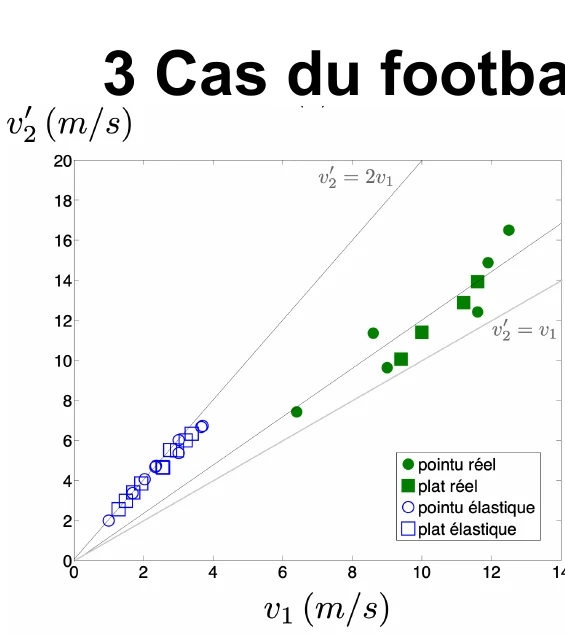
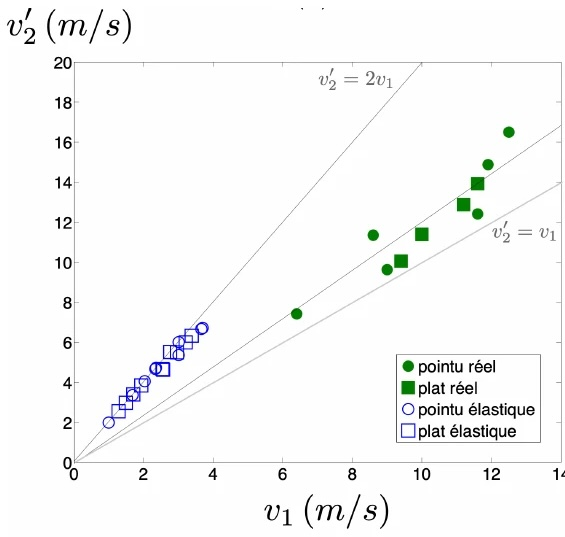
refactor(tipe): highlight experimental autonomy and LadHyX reference

diff --git a/en/projects/tipe.html b/en/projects/tipe.html
@@ -58,7 +58,7 @@
 <h1>Ball Impact Dynamics</h1>
 <div class="tipe-hero-tagline">Investigating the "Toe-Kick" effect: collision kinematics, contact duration, and kicking biomechanics</div>
 <p>
-From replicating a university research protocol to dynamic modeling: separating collision kinematics, contact duration, and human biomechanics in athletic strikes.
+An experimental and computational investigation into ball impact dynamics: drawing on research from LadHyX / École Polytechnique to separate collision kinematics, contact duration, and human biomechanics.
 </p>
 <div class="turbine-hero-actions">
 <a class="turbine-button turbine-button-primary" download="PRESENTATION_TIPE_55556_AOUANOUK.pdf" href="../../assets/documents/projects/tipe/presentation-tipe-55556.pdf">
@@ -90,7 +90,7 @@ Explore the Test Bench <i class="fas fa-arrow-down"></i>
 In ball sports and particularly football, an entrenched belief among athletes holds that striking the ball with the toe ("le pointu") yields superior departure speed ("more pure power"), whereas the inside of the foot ("le plat du pied") guarantees precision. This competitive CPGE TIPE research project investigated whether contact geometry alone can intrinsically alter ball launch velocity.
 </p>
 <p>
-To resolve this question, my engineering methodology centered on <strong>decoupling impact mechanics from human motor execution</strong>. By replicating at laboratory scale the experimental protocol of a doctoral reference thesis (football physics at LadHyX / École Polytechnique), I designed a repeatable pendulum test bench, built a high-speed video tracking workflow, automated kinematic data processing in Python, and formulated a minimal dynamic model validated by physical measurements.
+To investigate this question, I developed an experimental and computational approach focused on isolating impact mechanics from human motor execution. Drawing on research in football impact physics conducted at LadHyX / École Polytechnique, I designed and built a repeatable pendulum-based test bench, implemented a high-speed video tracking workflow, automated kinematic data processing in Python, and developed a simplified dynamic model validated against experimental measurements.
 </p>
 </section>
 <aside aria-label="TOOLS AND METHODS" class="project-tools-panel glass-panel">
@@ -108,7 +108,7 @@ To resolve this question, my engineering methodology centered on <strong>decoupl
 <section class="turbine-section slide-up delay-2" id="experimental-bench">
 <div class="turbine-section-heading">
 <span class="turbine-section-index">02 · EXPERIMENTAL RIG &amp; PROTOTYPING</span>
-<h2>Replicating Research Protocol at Laboratory Scale</h2>
+<h2>Custom Pendulum Rig Design &amp; Precision Prototyping</h2>
 </div>
 <p style="margin-bottom: 24px; color: #475569; line-height: 1.75;">
 To eliminate biases inherent to human motor variability (fluctuating foot speeds, muscular deceleration, parasitic ankle flexion), I engineered a mechanical leg based on a compound pendulum weighing <strong>m₁ = 1.4 kg</strong> with length <strong>L = 46 cm</strong>, guided inside a 50 cm vertical structure. Interchangeable impactor heads were modeled and 3D printed in PLA: three cylinders of diameters <strong>2r = 6 mm, 12 mm, and 24 mm</strong> (representing toe-kick geometries at different scales) as well as a wide flat plate (representing the inside of the foot). An elastic spherical ball inflated to controlled overpressure (p = 0.2 bar / 3 psi) was struck equatorially to isolate pure collision dynamics before introducing real football damping.

diff --git a/fr/projects.html b/fr/projects.html
@@ -434,7 +434,7 @@
             Dynamique d’impact dans les sports de balle
           </h3>
 <p style="font-size: 0.9rem; flex-grow: 1;">
-            Reproduction d'un banc pendulaire de recherche, analyse vidéo rapide sous Python et modélisation dynamique de l'effet « pointu » au football.
+            Conception d'un banc d'essai pendulaire, analyse vidéo rapide sous Python et modélisation dynamique nourries par les recherches du LadHyX / École Polytechnique.
           </p>
 <div class="tech-stack-row">
 <span class="tech-badge">Banc pendulaire</span>

diff --git a/en/projects.html b/en/projects.html
@@ -538,7 +538,7 @@
           </h3>
 
           <p style="font-size: 0.9rem; flex-grow: 1;">
-            Replication of a research pendulum test bench, high-speed video tracking in Python, and dynamic collision modeling of the football "toe-kick" effect.
+            Custom pendulum test bench, high-speed video tracking in Python, and dynamic collision modeling drawing on research from LadHyX / École Polytechnique.
           </p>
 
           <div class="tech-stack-row">
